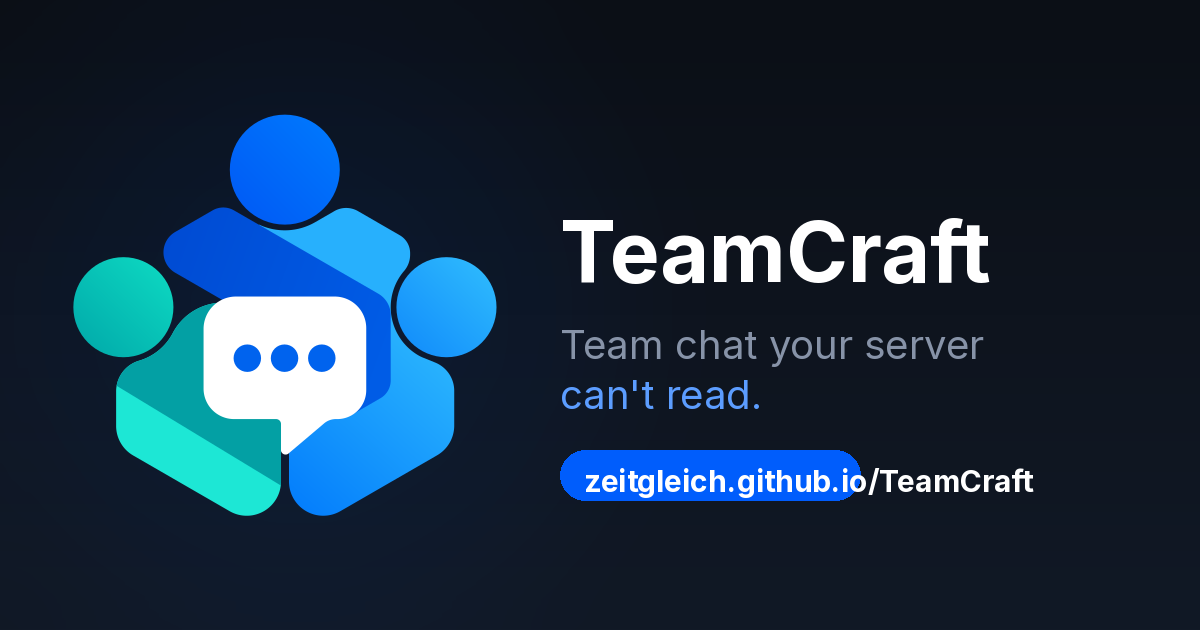
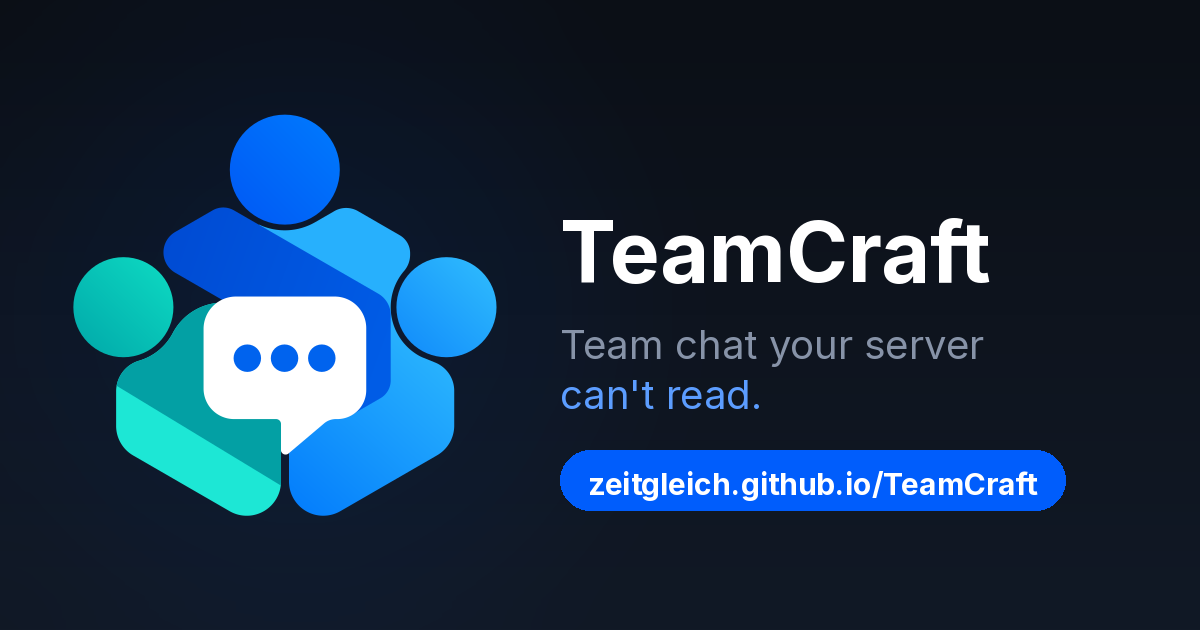
fix(site): rework og:image — auto-size URL pill so it never overflows
Address maintainer review on #553:
- URL pill is now sized to the text (28px padding each side) so
  'zeitgleich.github.io/TeamCraft' fits fully inside the capsule instead of
  running out of it.
- Kept the brand mark + navy/blue palette; tightened the pill radius to a
  proper capsule and centered the URL vertically.
- Regenerated scripts/site/og-image.png (1200x630) from the same brand assets.

Why a script: the card is generated from the same mark.svg + brand tokens the
rest of the site uses, so it stays pixel-consistent with the design system and
can be regenerated in one command if the mark or palette changes. The rendered
PNG is committed so the site never needs the toolchain at build time.

Changed region(s): [[0.4625, 0.6937, 0.8942, 0.8143]]

diff --git a/scripts/make-og.py b/scripts/make-og.py
@@ -4,6 +4,12 @@
 Composes the brand mark (assets/brand/mark.svg) on a dark navy backdrop with
 the wordmark and tagline, matching the package-site design system. Output is
 written to scripts/site/og-image.png (the path the og:image meta tag uses).
+
+Why a script instead of a hand-drawn static asset: the card is generated from
+the same brand mark SVG and brand tokens the rest of the site uses, so it stays
+pixel-consistent with the design system and can be regenerated in one command
+if the mark or palette ever changes. The rendered PNG is committed so the site
+never needs the toolchain at build time.
 """
 import io
 import pathlib
@@ -11,9 +17,9 @@ import pathlib
 import cairosvg
 from PIL import Image, ImageDraw, ImageFilter, ImageFont
 
-ROOT = pathlib.Path(__file__).resolve().parents[2]
+ROOT = pathlib.Path(__file__).resolve().parent.parent
 MARK = ROOT / "assets/brand/mark.svg"
-OUT = pathlib.Path(__file__).resolve().parent / "og-image.png"
+OUT = pathlib.Path(__file__).resolve().parent / "site" / "og-image.png"
 
 W, H = 1200, 630
 NAVY = (11, 15, 22)          # #0b0f16
@@ -26,6 +32,8 @@ MUTED = (135, 147, 168)      # #8793a8
 FONT_DIR = pathlib.Path("/home/paperclip/.local/lib/node_modules/sourcey/dist/og/fonts")
 FONT_BOLD = FONT_DIR / "Inter-Bold.ttf"
 FONT_REG = FONT_DIR / "Inter-Regular.ttf"
+
+URL = "zeitgleich.github.io/TeamCraft"
 
 
 def render_mark(size: int) -> Image.Image:
@@ -74,12 +82,29 @@ def main() -> None:
     # Tagline with a blue accent on "can't read".
     d.text((tx, ty + 120), "Team chat your server", font=f_tag, fill=MUTED)
     d.text((tx, ty + 170), "can't read.", font=f_tag, fill=LIGHT_BLUE)
-    # URL pill.
-    d.rounded_rectangle([tx, ty + 250, tx + 300, ty + 300], radius=25, fill=BLUE)
-    d.text((tx + 24, ty + 262), "zeitgleich.github.io/TeamCraft", font=f_url, fill=WHITE)
+
+    # URL pill sized to the text so it never overflows.
+    url_w = f_url.getlength(URL)
+    pad_x = 28
+    pad_y = 18
+    pill_w = int(url_w) + pad_x * 2
+    pill_h = 60
+    pill_x = tx
+    pill_y = ty + 250
+    d.rounded_rectangle(
+        [pill_x, pill_y, pill_x + pill_w, pill_y + pill_h],
+        radius=pill_h // 2,
+        fill=BLUE,
+    )
+    d.text(
+        (pill_x + pad_x, pill_y + (pill_h - 30) // 2),
+        URL,
+        font=f_url,
+        fill=WHITE,
+    )
 
     bg.save(OUT, "PNG")
-    print(f"wrote {OUT} ({bg.size})")
+    print(f"wrote {OUT} ({bg.size}) pill_w={pill_w} url_w={url_w:.0f}")
 
 
 if __name__ == "__main__":
